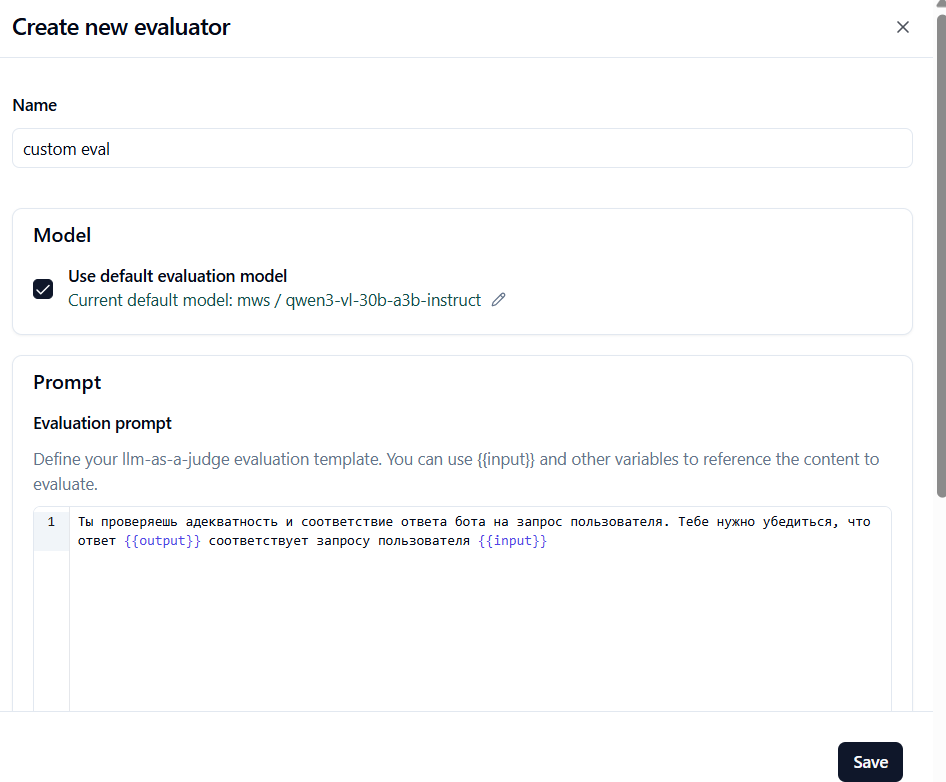
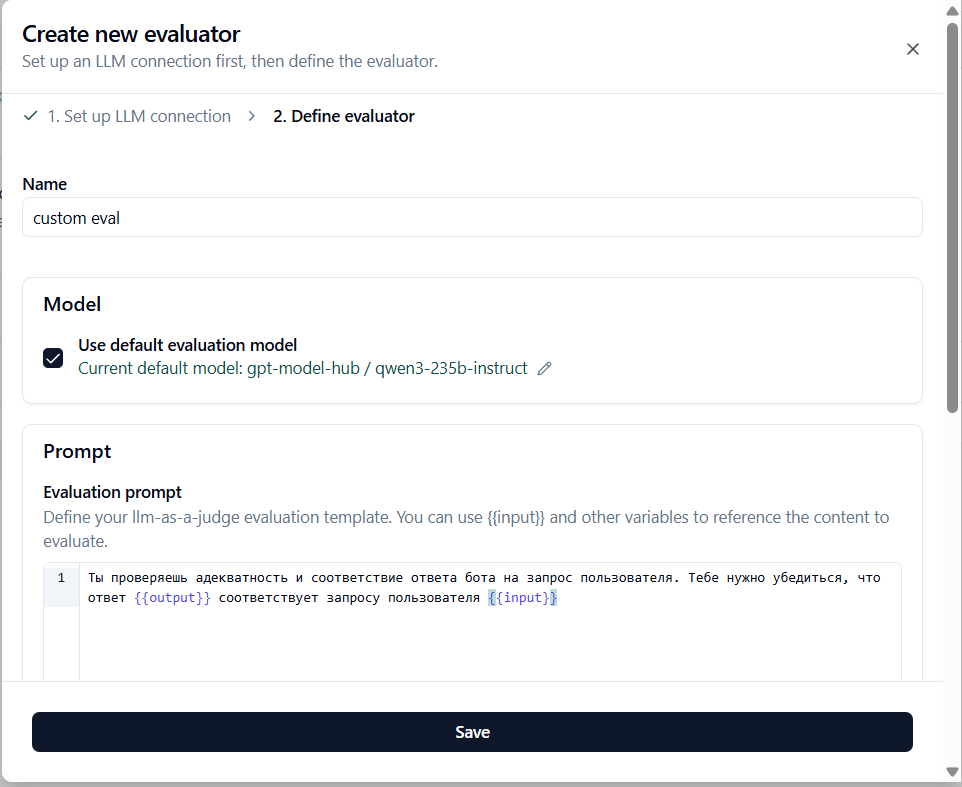
Update doc for Langfuse 3.200

diff --git a/docs/setup.md b/docs/setup.md
@@ -10,24 +10,6 @@ git clone https://github.com/bocharovf/langfuse-workshop.git
 
 Создайте копию файла `.env_example` с именем `.env` в том же каталоге.
 
-## Создайте проект в Langfuse
-
-1. Зарегистрируйтесь (sign up) на <http://localhost:3000/>.
-2. Создайте для себя отдельный проект в Langfuse.
-
-## Создайте ключи доступа к вашему проекту Langfuse (API Keys)
-
-Зайдите в **Settings → API Keys → Create new API Keys**.
-
-Пропишите ключи в `.env` файл проекта:
-
-```
-LANGFUSE_PUBLIC_KEY=pk-lf-...
-LANGFUSE_SECRET_KEY=sk-lf-...
-```
-
-![API Keys](/img/project-api-keys.png)
-
 # Получите доступ к LLM MWS GPT Model Hub
 
 Чтобы ИИ-агент работал, ему нужен доступ к большой языковой модели.
@@ -51,13 +33,12 @@ LANGFUSE_SECRET_KEY=sk-lf-...
 
 ## Деплоймент необходимых моделей
 
-Теперь нам нужно развернуть в нашем проекте 4 модели, с которыми будет работать наш агент.
+Теперь нам нужно развернуть в нашем проекте 3 модели, с которыми будет работать наш агент.
 
 Перейдите на закладку **GPT Model Hub -> Деплойменты моделей**.
 
-Создайте 4 модели:
+Создайте 3 модели:
 
-- `gpt-oss-120b`
 - `qwen3-235b-instruct`
 - `bge-m3`
 - `qwen3-32b`
@@ -95,7 +76,35 @@ LLM_TOKEN=v1....
 LLM_URL=https://gpt.mwsapis.ru/projects/ЗАМЕНИТЬ_НА_ВАШ_ПРОЕКТ/openai/v1/
 ```
 
-# Запустите проект
+# Создайте проект в Langfuse
+
+## Запустите Langfuse
+
+Выполните команду, чтобы запустить Langfuse (сам агент у нас пока еще работать не будет и часть контейнеров может упасть)
+
+```
+docker-compose up -d
+```
+
+1. Зарегистрируйтесь (sign up) на <http://localhost:3000/>.
+2. Создайте для себя организацию и проект в Langfuse.
+
+## Создайте ключи доступа к вашему проекту Langfuse (API Keys)
+
+Зайдите в **Settings → API Keys → Create new API Keys**.
+
+Пропишите ключи в `.env` файл проекта:
+
+```
+LANGFUSE_PUBLIC_KEY=pk-lf-...
+LANGFUSE_SECRET_KEY=sk-lf-...
+```
+
+![API Keys](/img/project-api-keys.png)
+
+# Перезапустите проект
+
+Теперь, после заполнения `.env`, поднимаем оставшиеся контейнеры агента
 
 ```
 docker-compose up -d
@@ -114,5 +123,7 @@ docker-compose up -d
 
 1. Агент ответил на запрос рецептом
 2. В вашем проекте Langfuse на закладке Tracing видны трейсы
+
+![Tracing](/img/setup-result50.png)
 
 ![Tracing](/img/tracing.png)

diff --git a/docs/step12.md b/docs/step12.md
@@ -30,7 +30,7 @@
 
 Где API Key - это ваш ключ от LLM, который вы ранее указали в параметре `LLM_TOKEN` файла `.env`.
 
-![llm](img/newllm50_1.png)
+![LLM connection](img/newllm50_1.png)
 
 Разверните пункт **Show advanced settings** и укажите:
 
@@ -39,39 +39,38 @@
 
 Где API Base URL - это адрес вашего проекта, который вы ранее указали в параметре `LLM_URL` файла `.env`.
 
-![llm](img/newllm50_2.png)
+![LLM Connection advanced](img/newllm50_2.png)
 
-## Создайте ШАБЛОН evaluator'а
+## Создайте Evaluator
 
-Для этого в вашем проекте Langfuse перейдите в раздел **LLM-as-a-judge**
+Для этого в вашем проекте Langfuse перейдите в раздел **Evaluators**
 
-Нажмите **+ Set up evaluator** и выберите **+ Create Custom Evaluator** (внизу справа кнопка)
+Нажмите **Create evaluator** и выберите **LLM as a judge evaluator**
+
+![new evaluator](img/create-new-evaluator50.png)
 
 Выберите имя для шаблона, например `custom eval` и введите примерно такой текст в **Evaluation prompt**:
 
 ```
-Ты проверяешь адекватность и соответствие ответа бота на запрос пользователя. Тебе нужно убедиться, что ответ {{output}} соответствует запросу пользователя {{input}}
+Ты проверяешь адекватность и соответствие ответа бота на запрос пользователя. Тебе нужно убедиться, что ответ {{output}} соответствует запросу пользователя {{input}} и вернуть оценку от 0 до 1, где 0 - ответ полностью не соответствует запросу, а 1 - ответ полностью соответствует запросу.
 ```
 
-![llm](img/custom-eval50.png)
+Нажмите **Save**
 
-> **Примечание:** Создание шаблона может подвисать (баг langfuse). Перезагрузите страницу, скорее всего шаблон создался
+![new evaluator](img/custom-eval50.png)
 
-## Создайте экземпляр evaluator'а из шаблона
+## Настройте фильтр для выбора спанов
 
-Для этого снова нажмите **+ Set up evaluator** и выберите из списка ранее созданный `custom eval` в разделе **Custom evaluators**.
-
-Добавьте в фильтр условие **Name any of run-agent**, чтобы проверка работала только для финального запроса.
-
-Уберите из фильтра **TYPE**
+В разделе фильтр удалите все установленные фильтры по умолчанию (`Type` и `Environment`)
+И добавьте единственное условие **Name any of run-agent**, чтобы проверка работала только для финального спана.
 
 Если фильтр выбран верно - вы увидите список подходящих спанов **run-agent** в таблице.
 
-![llm](img/eval-filter50.png)
+![filter](img/eval-filter50.png)
 
 Настройте маппинг секций `{{output}}` и `{{input}}` — установите **Object Field** в **Output** и **Input** соответственно.
 
-![llm](img/eval-mapping50.png)
+![input output mapping](img/eval-mapping50.png)
 
 ## Сделайте запросы к агенту
 